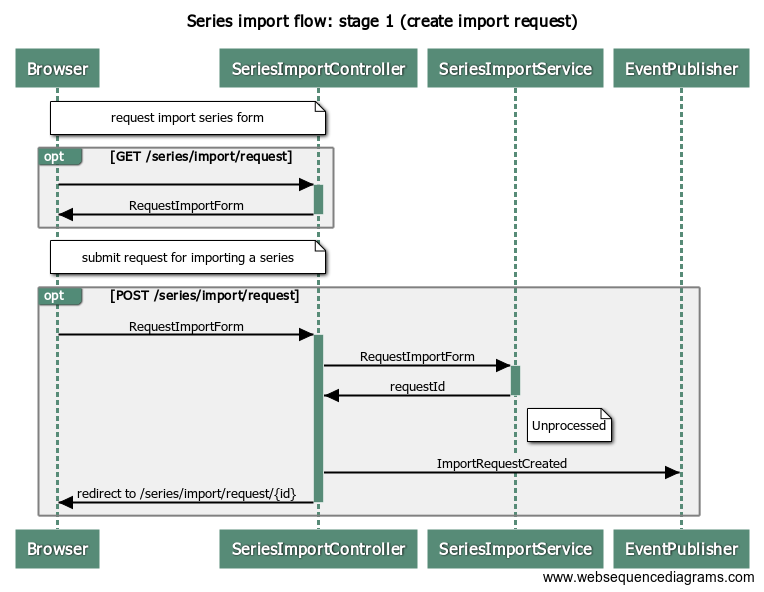
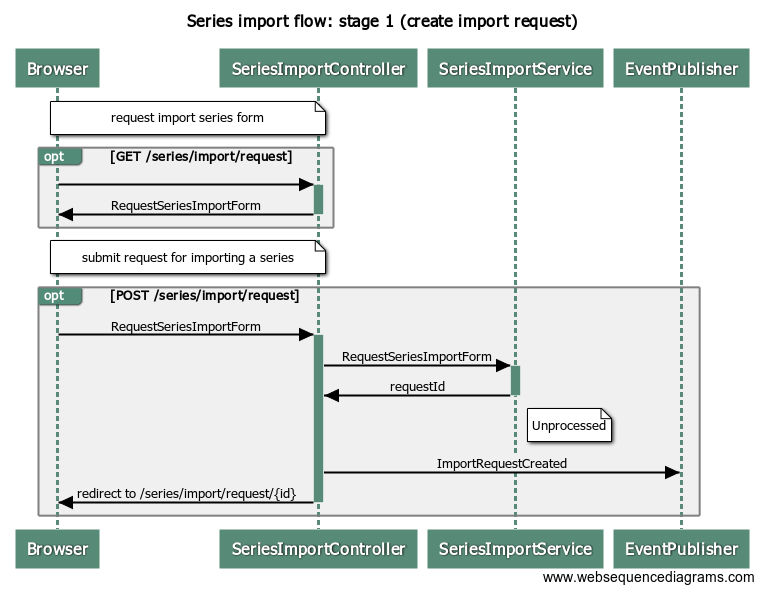
refactor: rename RequestImportForm to RequestSeriesImportForm.
Addressed to #1026

Changed region(s): [[0.4516, 0.5777, 0.6322, 0.6081], [0.1505, 0.5473, 0.3312, 0.5777], [0.1505, 0.3345, 0.3312, 0.3649]]

diff --git a/src/main/java/ru/mystamps/web/feature/series/importing/sale/SeriesSaleImportController.java b/src/main/java/ru/mystamps/web/feature/series/importing/sale/SeriesSaleImportController.java
@@ -25,7 +25,7 @@ import org.springframework.http.ResponseEntity;
 import org.springframework.web.bind.annotation.PostMapping;
 import org.springframework.web.bind.annotation.RequestBody;
 import org.springframework.web.bind.annotation.RestController;
-import ru.mystamps.web.feature.series.importing.RequestImportForm;
+import ru.mystamps.web.feature.series.importing.RequestSeriesImportForm;
 
 import javax.validation.Valid;
 
@@ -39,7 +39,7 @@ public class SeriesSaleImportController {
 	
 	@PostMapping(SeriesSalesImportUrl.IMPORT_SERIES_SALES)
 	public ResponseEntity<SeriesSaleExtractedInfo> downloadAndParse(
-		@RequestBody @Valid RequestImportForm form) {
+		@RequestBody @Valid RequestSeriesImportForm form) {
 		
 		String url = form.getUrl();
 		

diff --git a/src/main/java/ru/mystamps/web/feature/series/importing/SeriesImportController.java b/src/main/java/ru/mystamps/web/feature/series/importing/SeriesImportController.java
@@ -72,13 +72,13 @@ public class SeriesImportController {
 	
 	@GetMapping(SeriesImportUrl.REQUEST_IMPORT_SERIES_PAGE)
 	public void showRequestImportForm(Model model) {
-		RequestImportForm requestImportForm = new RequestImportForm();
+		RequestSeriesImportForm requestImportForm = new RequestSeriesImportForm();
 		model.addAttribute("requestImportForm", requestImportForm);
 	}
 	
 	@PostMapping(SeriesImportUrl.REQUEST_IMPORT_SERIES_PAGE)
 	public String processRequestImportForm(
-		@Valid RequestImportForm form,
+		@Valid RequestSeriesImportForm form,
 		BindingResult result,
 		@CurrentUser Integer currentUserId) {
 		

diff --git a/src/main/java/ru/mystamps/web/feature/series/importing/RequestSeriesImportForm.java b/src/main/java/ru/mystamps/web/feature/series/importing/RequestSeriesImportForm.java
@@ -29,13 +29,13 @@ import javax.validation.constraints.Size;
 @Getter
 @Setter
 @GroupSequence({
-	RequestImportForm.class,
+	RequestSeriesImportForm.class,
 	Group.Level1.class,
 	Group.Level2.class,
 	Group.Level3.class,
 	Group.Level4.class
 })
-public class RequestImportForm implements RequestImportDto {
+public class RequestSeriesImportForm implements RequestImportDto {
 	
 	// @todo #995 Series sale import: use its own interface and form
 	@NotEmpty(groups = Group.Level1.class)
